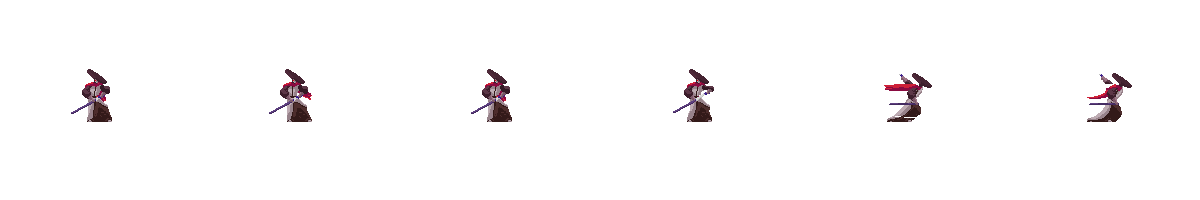
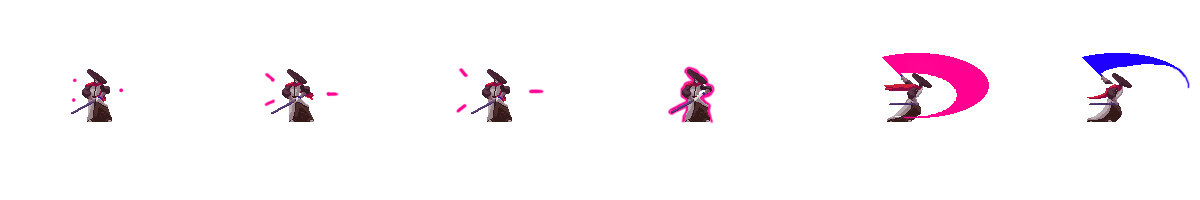
attack1 works

diff --git a/js/Classes.js b/js/Classes.js
@@ -130,6 +130,7 @@ class Fighter extends Sprite {
         this.velocity.y += gravity
     } 
     attack() {
+        this.switchSprite('attack1')
         this.isAttacking = true
         setTimeout(() => {
             this.isAttacking = false
@@ -138,6 +139,9 @@ class Fighter extends Sprite {
     }
 
     switchSprite(sprite) {
+        if (this.image === this.sprites.attack1.image 
+            && this.framesCurrent < this.sprites.attack1.framesMax -1 ) return
+
         switch (sprite) {
             case 'idle':
                 if (this.image !== this.sprites.idle.image){

diff --git a/ReadMe.md b/ReadMe.md
@@ -23,7 +23,7 @@ shop Sprite with animation - DONE
 Player sprite (Samurai Mack)
     Idle - DONE    
     Run - DONE          
-    Jump     
+    Jump - DONE          
     Attack    
 Enemy Sprite (Kenji)
     Idle - DONE    
